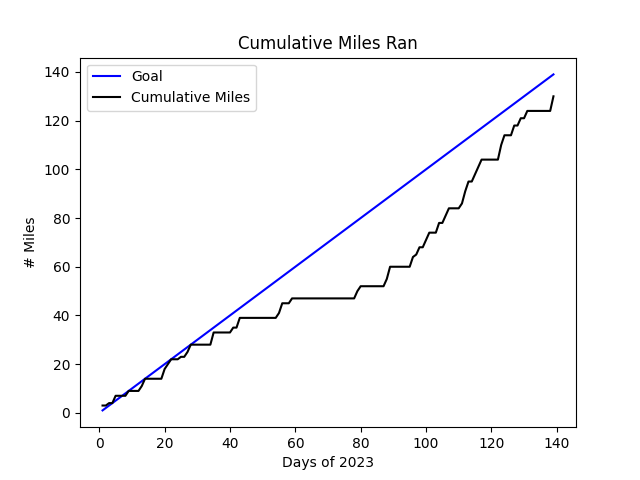
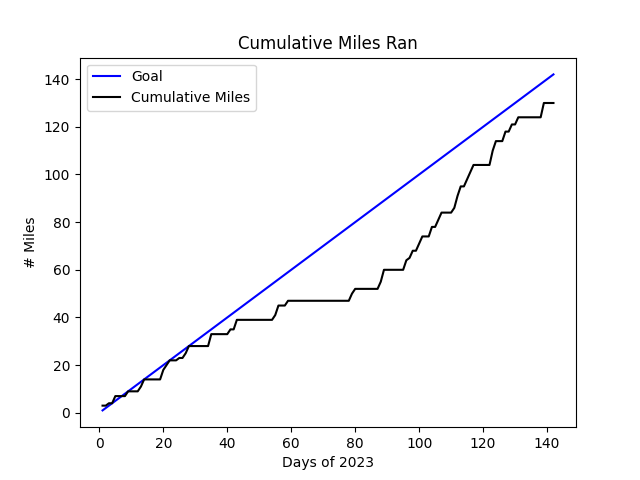
Add some extra date stuff

diff --git a/progress.py b/progress.py
@@ -1,7 +1,13 @@
+import matplotlib.colors as mplc
 import matplotlib.pyplot as plt
 import numpy as np
 import pandas as pd
+from datetime import date
 
+start_date = date(2022, 12, 31)
+todays_date = date.today()
+ndays = (todays_date - start_date).days
+print(f"Days of 2023: {ndays}")
 
 df = pd.DataFrame({'day': [], 'miles': [], 'times': [], 'average': [], 'fastest': [], 'slowest': []})
 
@@ -33,6 +39,12 @@ with open('progress.txt') as f:
         # put this when day - 1 == index
         df.loc[len(df.index)] = np.array([day, dist, day_pacing, np.mean(day_pacing), np.min(day_pacing), np.max(day_pacing)],dtype=object)
 
+
+while(ndays > len(df.index)):
+    df.loc[len(df.index)] = np.array([len(df.index)+1, 0, [], np.nan, np.nan, np.nan],dtype=object)
+
+print(df.info)
+
 df[["day", "miles", "average", "fastest", "slowest"]] = df[["day", "miles", "average", "fastest", "slowest"]].apply(pd.to_numeric)
 
 df['cumulative_miles'] = df['miles'].cumsum()
@@ -62,6 +74,8 @@ if plot_cumulative:
 # Plot difference from ideal
 
 def colormap_difference(diff):
+    # I want a way of doing this that is continuous
+    
     def help(d):
         if d <= 0:
             return 'green'
@@ -80,6 +94,23 @@ plot_difference = True
 df_nonzero = df[df["miles"] != 0]
 df_zero = df[df["miles"] == 0]
 
+
+
+cdict = {'red':   [(0.0,  0.0, 0.0),
+                       (0.5,  1.0, 1.0),
+                       (1.0,  1.0, 1.0)],
+
+             'green': [(0.0,  0.0, 0.0),
+                       (0.25, 0.0, 0.0),
+                       (0.75, 1.0, 1.0),
+                       (1.0,  1.0, 1.0)],
+
+             'blue':  [(0.0,  0.0, 0.0),
+                       (0.5,  0.0, 0.0),
+                       (1.0,  1.0, 1.0)]}
+my_colormap = mplc.LinearSegmentedColormap('my_colormap',cdict,256)
+# print(my_colormap)
+
 if plot_difference:
     diff = []
     plt.axhline(10, color='gray', alpha=0.2)
@@ -87,8 +118,8 @@ if plot_difference:
     plt.axhline(30, color='gray', alpha=0.2)
     plt.bar(df_nonzero['day'], df_nonzero['difference'], color=colormap_difference(df_nonzero['difference']))
     plt.bar(df_zero['day'], df_zero['difference'], color=colormap_difference(df_zero['difference']), alpha=0.25)
-    plt.axhline(0, color='b', label='Goal\nWorst: '+str(max(df['difference']))+' days behind\nBest: '
-                                                   +str(abs(min(df['difference'])))+' days ahead')
+    plt.axhline(0, color='b', label='Goal\nWorst: '+str(max(df['difference']))+' behind\nBest: '
+                                                   +str(abs(min(df['difference'])))+' ahead')
     plt.xlabel('Days of 2023')
     plt.ylabel('# Miles Away from Goal')
     plt.legend(loc='upper left')
